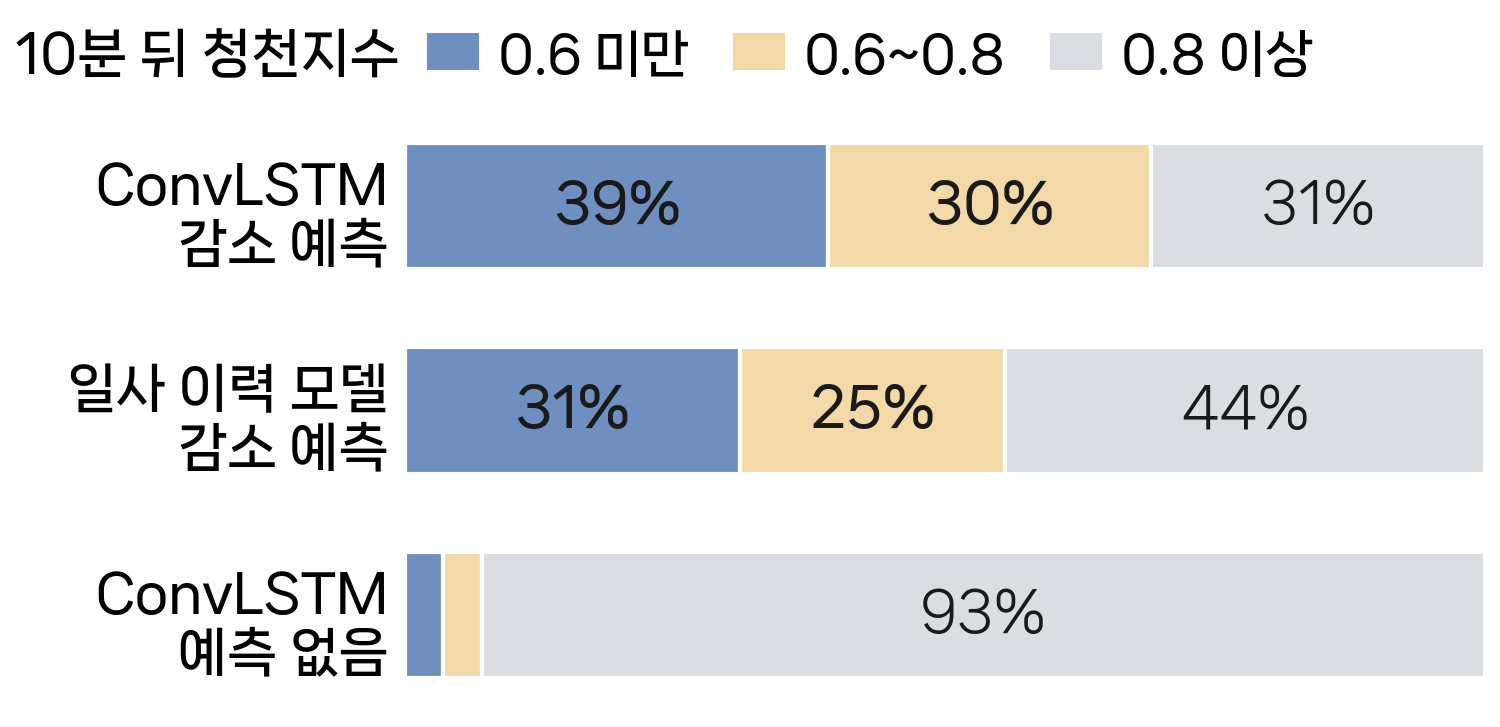
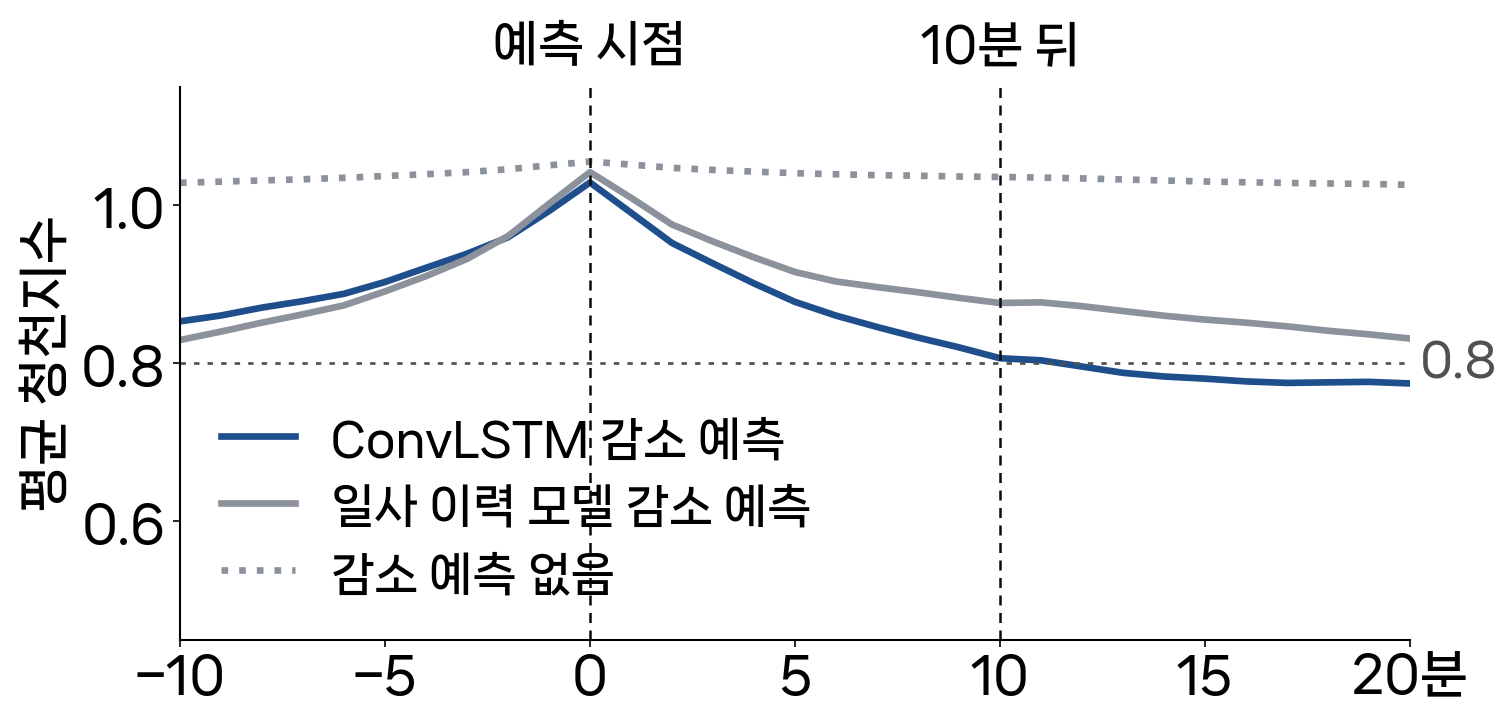
Fig. 8: line chart of mean clear-sky index around prediction time

diff --git a/README.md b/README.md
@@ -18,7 +18,7 @@
 | [Fig. 5](figures/fig5_case.png) | 일사 차단 사례(2015-12-19 13:50)의 전천영상, 실측 청천지수, 10분 전에 예측한 청천지수 0.6 미만 확률(예측 대상 시각에 맞춰 표시) |
 | [Fig. 6](figures/fig6_sky_states.png) | 맑음, 구름 이동, 흐림 상태의 예측 시점 전천영상 |
 | [Fig. 7](figures/fig7_performance.png) | 두 모델의 10분 전 일사 감소 시작 예측 성능(재현율, 정밀도, F1) |
-| [Fig. 8](figures/fig8_after10min.png) | 10분 전 감소 예측 여부별 실제 10분 뒤 청천지수. 예측했으나 맑음을 유지한 사례: [구름 가장자리](figures/fig8_case_cloud_edge.png), [얇은 구름](figures/fig8_case_thin_cloud.png) |
+| [Fig. 8](figures/fig8_after10min.png) | 감소 예측 여부별 예측 시점 전후 평균 청천지수. 예측했으나 감소하지 않은 사례: [구름 가장자리](figures/fig8_case_cloud_edge.png), [얇은 구름](figures/fig8_case_thin_cloud.png) |
 
 ## 주요 결과 (12~2월)
 
